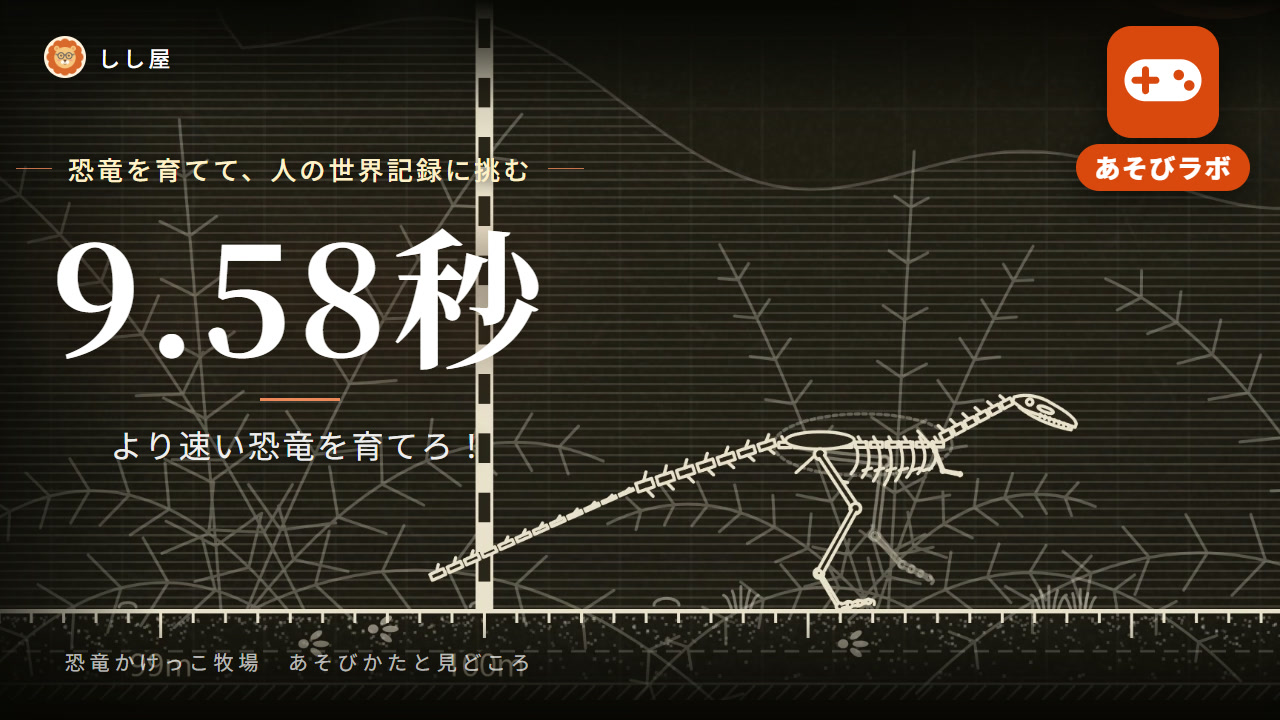
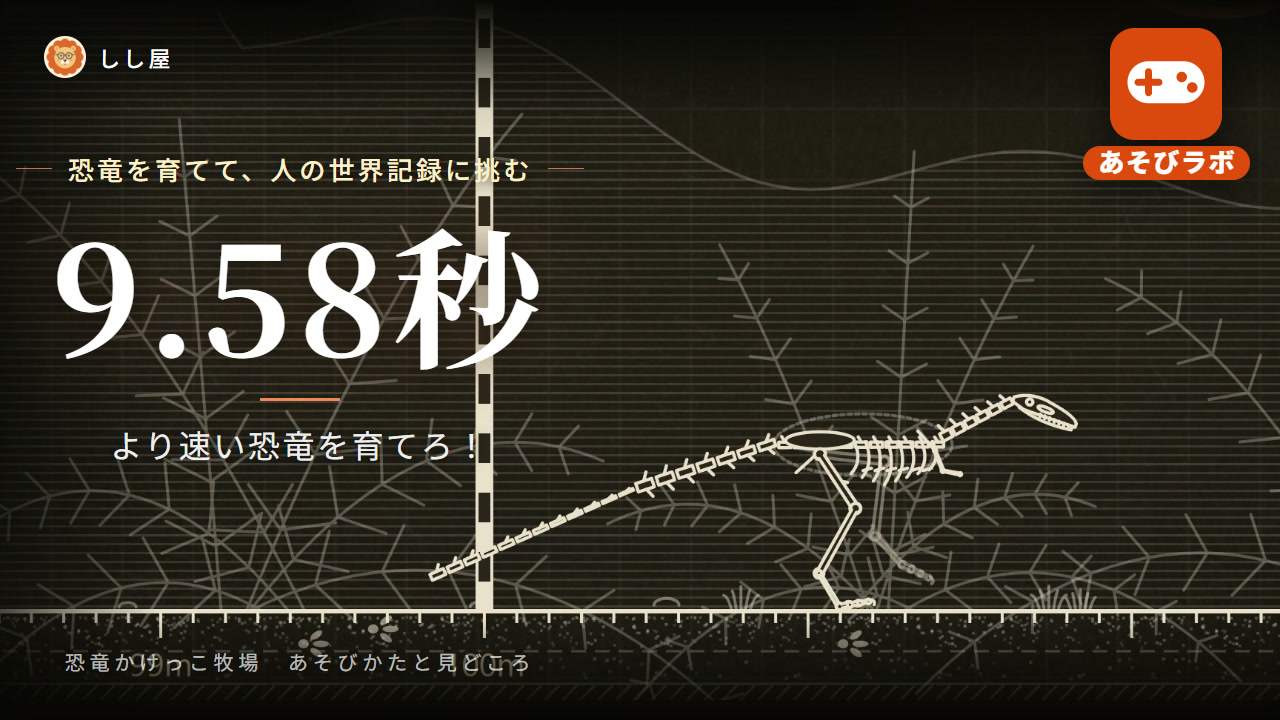
紹介動画: サムネイルのあそびラボの札を、ショートも横長と同じ割合で右上に。横長は 2px 下げた（ユーザー）。「あそびラボ」の字をインクではかって目で見てまんなかに

Changed region(s): [[0.8438, 0.1528, 0.9688, 0.275], [0.875, 0.0306, 0.9688, 0.1528]]

diff --git a/_dev/promo/short-thumb.html b/_dev/promo/short-thumb.html
@@ -51,13 +51,16 @@
   body.wide #name { left: 0; right: auto; width: 600px; bottom: 44px; font-size: 20px; }
   /* あそびラボの札（2026-10-19 ユーザー「人目であそびラボっぽいとわかる」「とおめでもゲーム系だとわかりやすい」）: 右上に、入口のファビコンと同じ
      オレンジの角丸＋白いゲームのコントローラーを大きく、下に「あそびラボ」。左上はチャンネル（しし屋のライオン）だけにする */
-  #asobi { position: absolute; right: 48px; top: 150px;   /* ショートの棚では右上のすみに YouTube の「⋮」が重なるので少し下げる */ display: flex; flex-direction: column; align-items: center; gap: 10px;
+  /* 大きさと位置は横長と同じ割合（アイコンの幅に対して右の余白 0.27・上の余白 0.25・字 0.23。横長の上はユーザーの指示で 2px 下げて 28px）。2026-10-19 ユーザー「もうすこし右上に、横長と似た感じに」 */
+  #asobi { position: absolute; right: 60px; top: 58px; display: flex; flex-direction: column; align-items: center; gap: 12px;
     filter: drop-shadow(0 6px 18px rgba(0,0,0,0.55)); }
-  #asobi svg { width: 200px; height: 200px; display: block; }
-  #asobi b { font-size: 46px; font-weight: 800; letter-spacing: 0.06em; color: #fff; background: #d9480f; border-radius: 999px; padding: 6px 26px 8px; }
-  body.wide #asobi { right: 30px; top: 26px; gap: 6px; }
+  #asobi svg { width: 230px; height: 230px; display: block; }
+  /* 字は目で見てまんなかに（Noto Sans JP の「あそびラボ」は、line-height 1 だとインクが 0.05em 下に寄る → 下の余白を 0.14em 多くして、
+     インクのまんなかを箱のまんなかより 0.02em 上に。右は字間 0.06em が余るので、そのぶん右の余白を小さく） */
+  #asobi b { font-size: 53px; font-weight: 800; letter-spacing: 0.06em; line-height: 1; color: #fff; background: #d9480f; border-radius: 999px; padding: 0.08em 0.54em 0.22em 0.6em; }
+  body.wide #asobi { right: 30px; top: 28px; gap: 6px; }
   body.wide #asobi svg { width: 112px; height: 112px; }
-  body.wide #asobi b { font-size: 26px; padding: 4px 18px 6px; }
+  body.wide #asobi b { font-size: 26px; }
 </style>
 </head>
 <body>

diff --git a/_dev/promo/README.md b/_dev/promo/README.md
@@ -29,7 +29,7 @@
 - 録画（サーバー `games` を起動して、リポジトリのルートで）:
   `powershell -NoProfile -ExecutionPolicy Bypass -File _dev/tools/record-promo.ps1 -Script dino-race -Short`
   `powershell -NoProfile -ExecutionPolicy Bypass -File _dev/tools/record-promo.ps1 -Script dino-race-guide`
-- サムネイル: `short-thumbs.js` の `dino-race`（ゴールの線をこえるラプトル 4号に「9.58秒 より速い恐竜を育てろ！」）。説明動画の名前は `wname`「あそびかたと見どころ」。右上にあそびラボの札（入口のファビコンと同じオレンジの角丸＋白いゲームのコントローラー、下に「あそびラボ」。2026-10-19 ユーザー「人目であそびラボっぽいとわかる」「とおめでもゲーム系だとわかりやすい」）。左上はチャンネルの「しし屋」だけ。札は `short-thumb.html` の `#asobi` なので、あそびラボのサムネイル全部に付く（果ての滝の箱庭は作りなおしたら付く）。ショートは右上のすみに YouTube の「⋮」が重なるので少し下げた。
+- サムネイル: `short-thumbs.js` の `dino-race`（ゴールの線をこえるラプトル 4号に「9.58秒 より速い恐竜を育てろ！」）。説明動画の名前は `wname`「あそびかたと見どころ」。右上にあそびラボの札（入口のファビコンと同じオレンジの角丸＋白いゲームのコントローラー、下に「あそびラボ」。2026-10-19 ユーザー「人目であそびラボっぽいとわかる」「とおめでもゲーム系だとわかりやすい」）。左上はチャンネルの「しし屋」だけ。札は `short-thumb.html` の `#asobi` なので、あそびラボのサムネイル全部に付く（果ての滝の箱庭は作りなおしたら付く）。ショートも横長と同じ割合で右上に（アイコンの幅に対して右 0.27・上 0.25）。字は Noto Sans JP のインクをはかって、目で見てまんなかに。
 - YouTube の下書き: `dino-race-short.upload.json`・`dino-race-guide.upload.json`（説明欄に「しし屋 まなびラボの姉妹サイト」とまなびラボへのリンク）。**予約 2026-10-23（木）説明動画 19:00・ショート 19:05**（ユーザーが決めた。12本の締めの日の空き枠、20:00〜20:15 はさけた）。上げるのはユーザーの GO のあと。
 
 ## 果ての滝の箱庭（2026-10-13）
